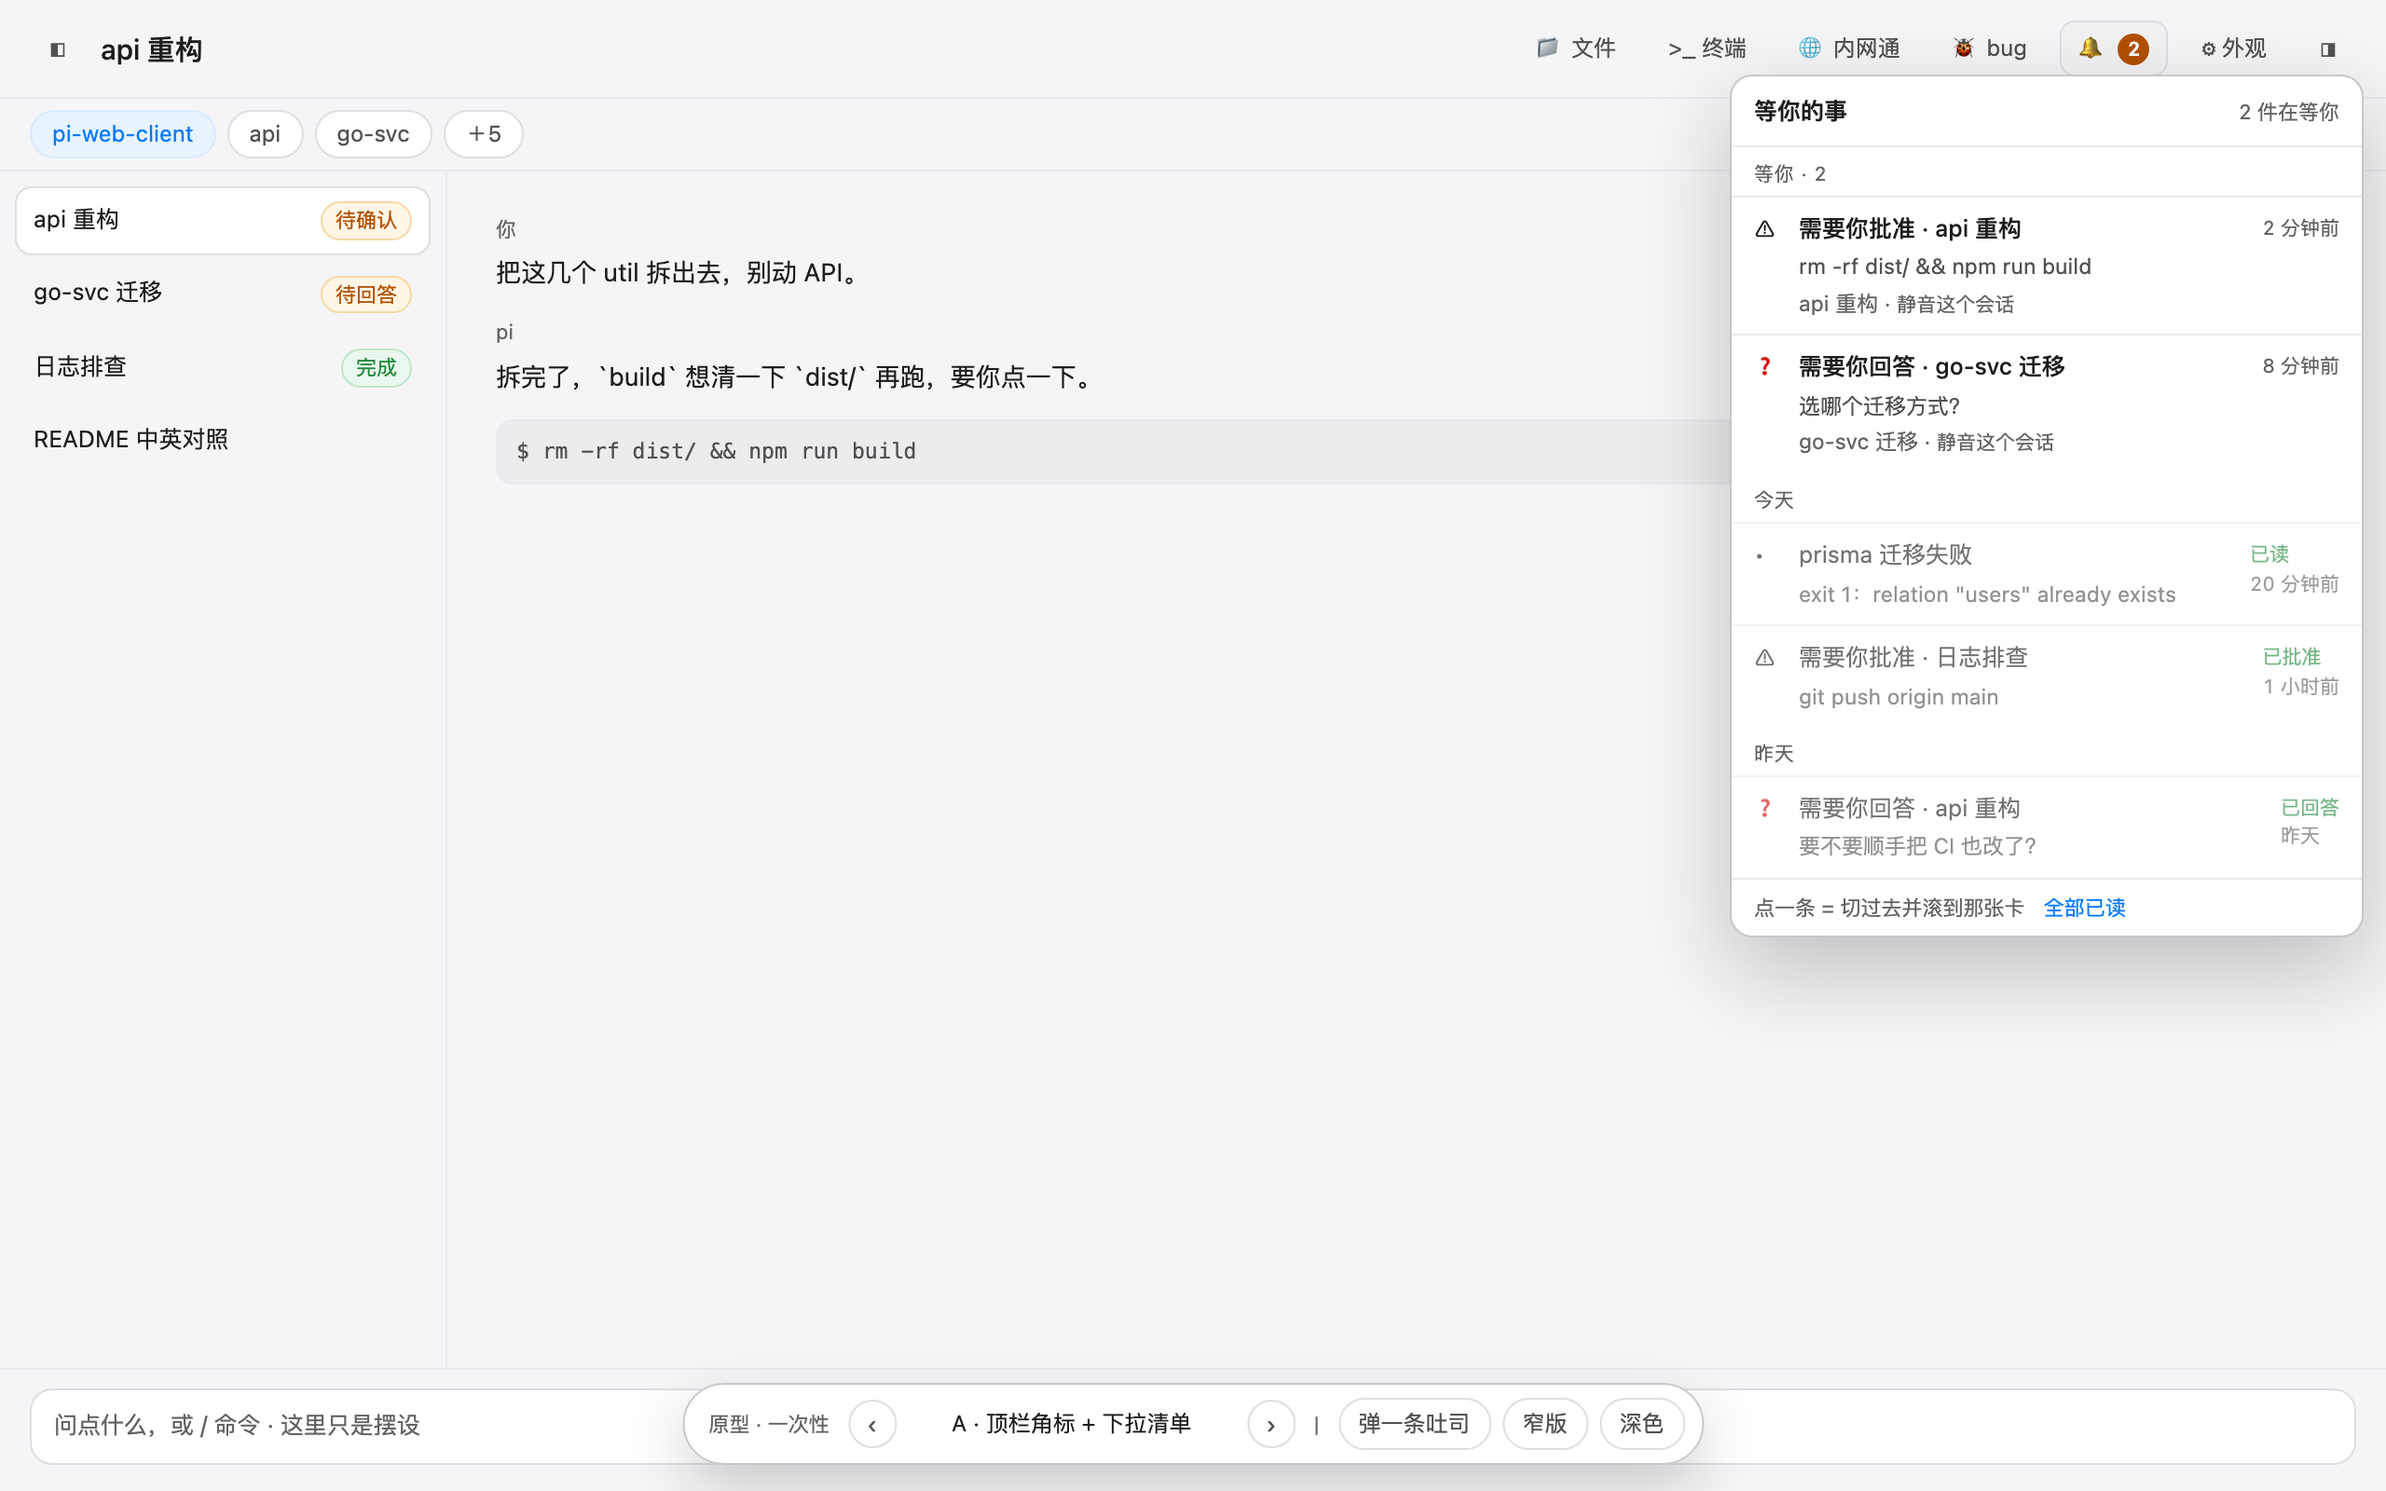
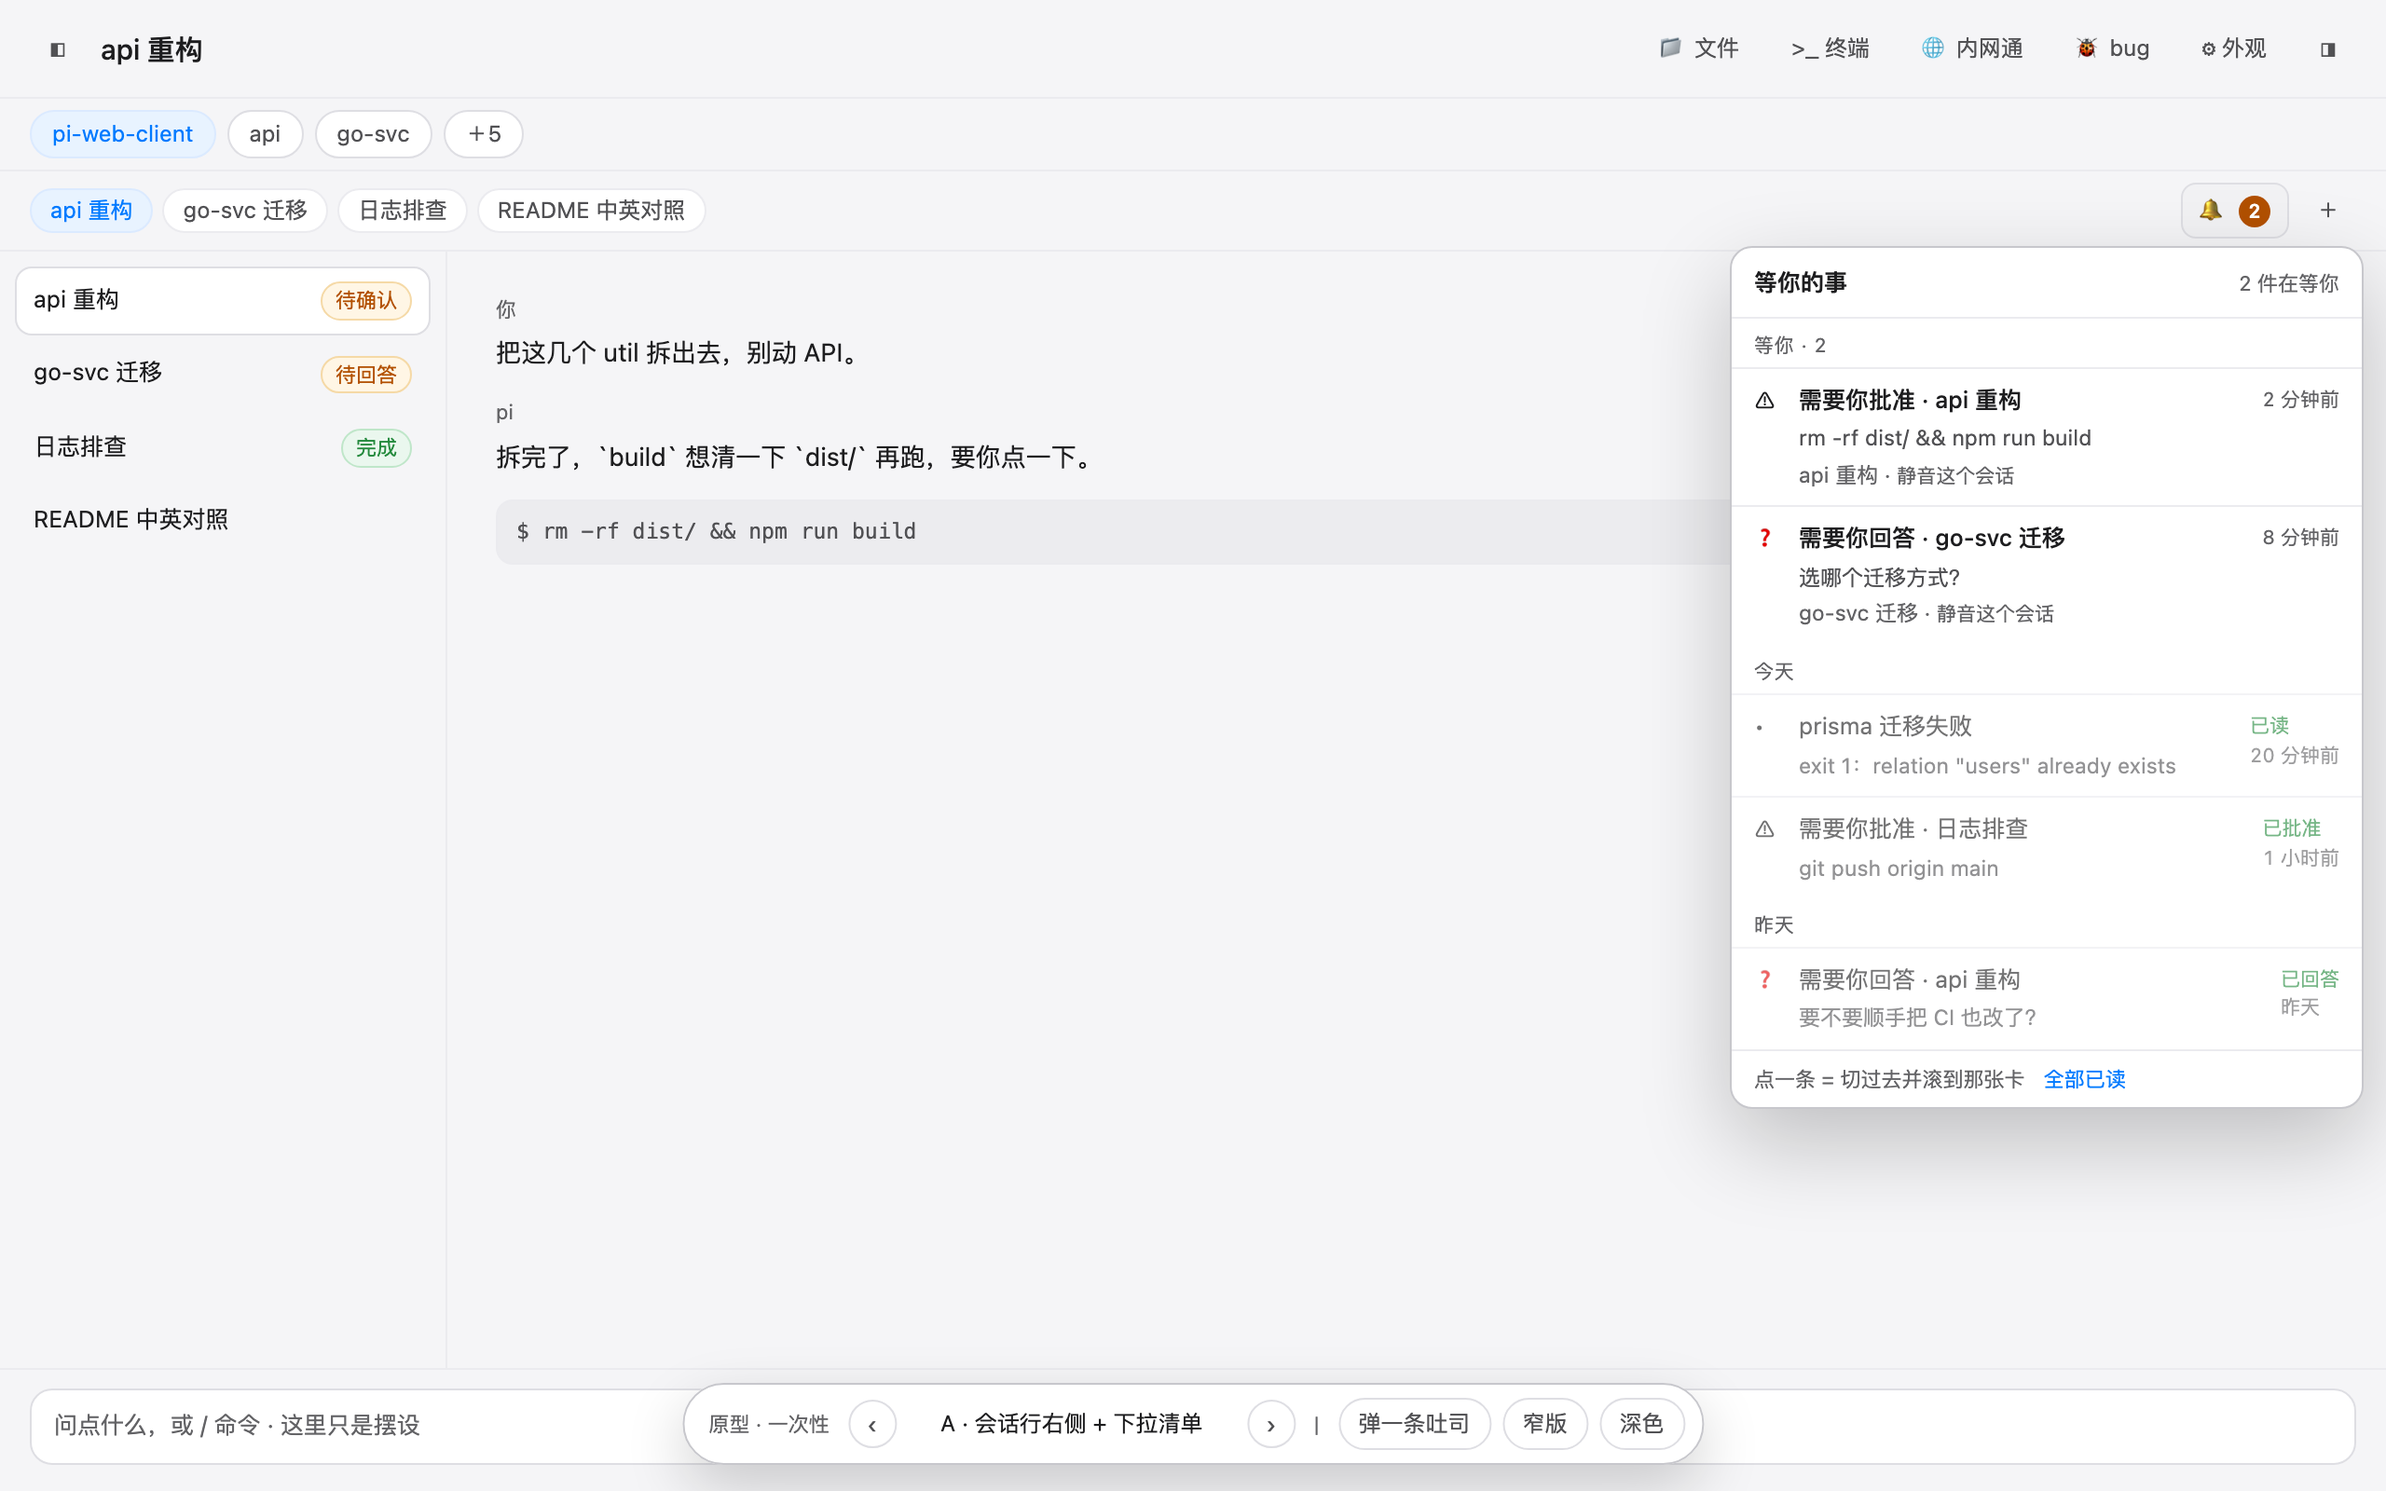
Move the bell to the right end of the session row (pin strip), not the topbar
The topbar already carries ten buttons; the bell's subject is sessions, so
it belongs on the ★ row, right of the pinned chips and left of ＋.

- mock shell gains a real sess-row (pin chips + bell + ＋)
- the popover now hangs under that row instead of under the topbar
- .app gets a fifth grid row — without it the session row ate the 1fr
  and the chat fell into an auto row (the classic hidden-child trap)
- toast drops to 146px so it starts below the row
- README: variants table now says where the bell actually sits

diff --git a/proto/reminders-ui/index.html b/proto/reminders-ui/index.html
@@ -49,7 +49,8 @@
   button { font: inherit; color: inherit; }
 
   /* ── 假的应用外壳（只为让角标出现在它该在的位置上） ───────────────────────── */
-  .app { display: grid; grid-template-rows: auto auto minmax(0, 1fr) auto; height: 100dvh; }
+  /* 五行对应五个子元素：顶栏 / 标签行 / ★ 行 / 主体 / 输入框。多一个子元素就多一行，主体会掉进 auto 行 */
+  .app { display: grid; grid-template-rows: auto auto auto minmax(0, 1fr) auto; height: 100dvh; }
   .topbar {
     display: flex; align-items: center; gap: 8px; padding: 11px 16px;
     border-bottom: 1px solid var(--line-soft); background: var(--bg); position: relative; z-index: 20;
@@ -90,8 +91,20 @@
   .composer { border-top: 1px solid var(--line-soft); padding: 10px 16px 14px; }
   .box { border: 1px solid var(--line); background: var(--panel); border-radius: var(--r); padding: 10px 12px; color: var(--faint); font-size: 12.5px; }
 
+  /* ── ★ 行（会话层）：角标就挂在这一行的最右端 ────────────────────────────── */
+  .sess-row {
+    position: relative; display: flex; align-items: center; gap: 6px; padding: 6px 16px;
+    border-bottom: 1px solid var(--line-soft); background: var(--bg);
+  }
+  .pin-strip { display: flex; align-items: center; gap: 5px; flex: 1; min-width: 0; overflow: hidden; }
+  .pin-chip {
+    flex: none; border: 1px solid var(--line-soft); background: var(--panel); color: var(--dim);
+    border-radius: 999px; padding: 2px 10px; font-size: 12px; white-space: nowrap;
+  }
+  .pin-chip.on { border-color: var(--accent-dim); background: var(--accent-bg); color: var(--accent); }
+
   /* ── 提醒：角标 ──────────────────────────────────────────────────────────── */
-  .remind-btn { position: relative; display: inline-flex; align-items: center; gap: 6px; }
+  .remind-btn { position: relative; display: inline-flex; align-items: center; gap: 6px; flex: none; }
   .remind-badge {
     min-width: 17px; height: 17px; padding: 0 4px; border-radius: 999px;
     background: var(--warn); color: var(--warn-ink, #fff); font-size: 10.5px; font-weight: 600;
@@ -132,7 +145,7 @@
   .pop-foot a { color: var(--accent); text-decoration: none; }
 
   /* E：按会话分组（结构上不是流水，是一张张会话卡） */
-  body[data-variant="E"] .remind-pop { top: 40px; right: 12px; width: 400px; max-height: 66vh; }
+  body[data-variant="E"] .remind-pop { top: calc(100% - 2px); right: 12px; width: 400px; max-height: 66vh; }
   .grpcard { border-top: 1px solid var(--line-soft); padding: 9px 12px 4px; cursor: pointer; }
   .grpcard:hover { background: var(--panel-2); }
   .grpcard .gh { display: flex; align-items: center; gap: 8px; }
@@ -142,8 +155,8 @@
   .grpcard .gi .gt { overflow: hidden; text-overflow: ellipsis; white-space: nowrap; }
   .grpcard .gsub { padding: 0 0 5px 22px; font-size: 10.5px; color: var(--faint); }
 
-  body[data-variant="A"] .remind-pop { top: 40px; right: 12px; width: 340px; max-height: 62vh; }
-  body[data-variant="B"] .remind-pop { top: 40px; right: 8px; width: 256px; max-height: 66vh; }
+  body[data-variant="A"] .remind-pop { top: calc(100% - 2px); right: 12px; width: 340px; max-height: 62vh; }
+  body[data-variant="B"] .remind-pop { top: calc(100% - 2px); right: 8px; width: 256px; max-height: 66vh; }
   body[data-variant="B"] .row { padding: 6px 10px; grid-template-columns: 14px minmax(0, 1fr) auto; }
   body[data-variant="B"] .row .sub { display: none; }
   body[data-variant="B"] .row:hover .sub { display: block; }
@@ -170,7 +183,7 @@
   .remind-strip .more { margin-left: auto; color: var(--dim); font-size: 11px; }
 
   /* ── 提醒：吐司（右上角，自己消失，悬停暂停） ────────────────────────────── */
-  .toasts { position: fixed; top: 64px; right: 16px; z-index: 60; display: flex; flex-direction: column; gap: 8px; width: 320px; }
+  .toasts { position: fixed; top: 146px; right: 16px; z-index: 60; display: flex; flex-direction: column; gap: 8px; width: 320px; }
   .toast {
     display: grid; grid-template-columns: 16px minmax(0, 1fr) auto; gap: 8px; align-items: start;
     background: var(--panel); border: 1px solid var(--line-strong); border-radius: 10px;
@@ -223,24 +236,9 @@
     <button class="tbtn">🌐 内网通</button>
     <button class="tbtn">🐞 bug</button>
 
-    <!-- 提醒：角标。B / C / D 里位置或形态不同，都不改这段 markup -->
-    <button class="tbtn remind-btn alert" data-count="2" id="remindBtn" title="等你的事">
-      <span aria-hidden="true">🔔</span>
-      <span class="remind-badge" id="remindBadge">2</span>
-    </button>
-
     <button class="tbtn">⚙ 外观</button>
     <button class="tbtn icobtn">◨</button>
 
-    <!-- 清单：A / B / C 共用这一份 -->
-    <div class="remind-pop" id="remindPop" role="dialog" aria-label="等你的事">
-      <div class="pop-head"><b>等你的事</b><span class="n" id="popCount">2 件在等你</span></div>
-      <div class="pop-body" id="popBody"></div>
-      <div class="pop-foot">
-        <span>点一条 = 切过去并滚到那张卡</span>
-        <a href="#" onclick="return false">全部已读</a>
-      </div>
-    </div>
   </header>
 
   <nav class="ws-tabs">
@@ -249,6 +247,29 @@
     <span class="ws-tab">go-svc</span>
     <span class="ws-tab">＋5</span>
   </nav>
+
+  <!-- ★ 行（会话层）：右上角那颗角标挂在这一行的最右端，不占顶栏 -->
+  <div class="sess-row">
+    <div class="pin-strip">
+      <span class="pin-chip on">api 重构</span>
+      <span class="pin-chip">go-svc 迁移</span>
+      <span class="pin-chip">日志排查</span>
+      <span class="pin-chip">README 中英对照</span>
+    </div>
+    <button class="tbtn remind-btn alert" data-count="2" id="remindBtn" title="等你的事">
+      <span aria-hidden="true">🔔</span>
+      <span class="remind-badge" id="remindBadge">2</span>
+    </button>
+    <button class="tbtn icobtn" title="置顶">＋</button>
+    <div class="remind-pop" id="remindPop" role="dialog" aria-label="等你的事">
+      <div class="pop-head"><b>等你的事</b><span class="n" id="popCount">2 件在等你</span></div>
+      <div class="pop-body" id="popBody"></div>
+      <div class="pop-foot">
+        <span>点一条 = 切过去并滚到那张卡</span>
+        <a href="#" onclick="return false">全部已读</a>
+      </div>
+    </div>
+  </div>
 
   <main class="main">
     <aside class="side">
@@ -301,8 +322,8 @@ const REMINDERS = [
 ];
 
 const BETS = {
-  A: "<b>A · 顶栏角标 + 下拉清单</b><br>赌「情报比操作重要」：清单只负责让你知道、跳过去；不复制审批 UI，窄屏也不抢正文。清单宽度 340，每条两行。",
-  B: "<b>B · 同排一格 + 极密列表</b><br>赌「你一屏能扫完」：单行只留标题与时间，正文悬停才出。看得多、认得快，但「rm -rf dist/」这种要点得先悬停才敢点。",
+  A: "<b>A · 会话行右侧 + 下拉清单</b><br>赌「情报比操作重要」：角标钉在 ★ 行右端（不挤顶栏那 10 颗），点开是 340px 的两行清单，只负责让你知道、跳过去，不复制审批 UI。",
+  B: "<b>B · 同一个位置 + 极密列表</b><br>赌「你一屏能扫完」：单行只留标题与时间，正文悬停才出。看得多、认得快，但「rm -rf dist/」这种要点得先悬停才敢点。",
   C: "<b>C · 右侧窄抽屉</b><br>赌「你愿意腾出 320px」：清单固定不随顶栏滚走，能停在那儿一格一格处理。代价是窄屏要么全宽盖住正文，要么干脆不出。",
   D: "<b>D · 底部状态带</b><br>赌「右上角是黄金位置」：不占顶栏，紧贴输入框，向上长。你正在打字时它的视线成本最低；反过来，全屏阅读时它离眼睛最远。",
   E: "<b>E · 按会话分组</b><br>赌「你关心的是哪个会话，不是哪一条」：一张会话卡里装它全部的等待（待确认 2 + 待回答 1），点卡 = 切过去。会话一多卡就少；但跨会话的「最近的先看」就读不出来了。",
@@ -310,7 +331,7 @@ const BETS = {
 
 const $ = (s, r = document) => r.querySelector(s);
 const state = { variant: "A", open: false, narrow: false, dark: false };
-const NAMES = { A: "顶栏角标 + 下拉清单", B: "同排一格 + 极密列表", C: "右侧窄抽屉", D: "底部状态带", E: "按会话分组" };
+const NAMES = { A: "会话行右侧 + 下拉清单", B: "会话行右侧 + 极密列表", C: "右侧窄抽屉", D: "底部状态带", E: "按会话分组" };
 
 function rel(at) {
   if (at > -60) return `${Math.abs(at)} 分钟前`;

diff --git a/proto/reminders-ui/README.md b/proto/reminders-ui/README.md
@@ -4,7 +4,9 @@
 
 **它不回答：** 状态怎么流转、角标怎么算。那是旁边 `../reminders-logic/` 的事。
 
-形状的大前提已经定了（`docs/DECISIONS.md` 的 **D389**）：别的会话在等你时，右上角弹一条自己消失的吐司 + 顶栏常驻角标 + 点角标开一栏清单；清单只负责跳转，不复制审批 UI。
+形状的大前提已经定了（`docs/DECISIONS.md` 的 **D389**）：别的会话在等你时，右上角弹一条自己消失的吐司 + 一个常驻角标 + 点角标开一栏清单；清单只负责跳转，不复制审批 UI。
+
+**角标的位置按你的意见改过**：第一版钉在顶栏（跟文件 / 终端 / 内网通那一排挤），现在是 **★ 行（会话层那一行）的最右端**，挨着 `＋`。理由是它讲的事就是会话。
 
 ## 怎么跑
 
@@ -24,11 +26,11 @@ open 'proto/reminders-ui/index.html?variant=C&toast=0'
 
 | | 形态 | 赌的是 | 代价 |
 | --- | --- | --- | --- |
-| **A** | 顶栏角标 → 下拉清单（340px，每条两行） | 清单只负责「让你知道 + 跳过去」 | 跨会话一多，清单就是一个长流水 |
+| **A** | ★ 行右端角标 → 下拉清单（340px，每条两行） | 清单只负责「让你知道 + 跳过去」 | 跨会话一多，清单就是一个长流水 |
 | **B** | 同一个角标位置 → 极密单行列表（256px，正文悬停才出） | 你一屏能扫完，认得快 | `rm -rf dist/` 这种得先悬停才敢点 |
-| **C** | 顶栏角标 → 右侧固定窄抽屉（320px） | 你愿意腾出 320px，让它停在那一格一格处理 | 窄屏要么全宽盖住正文，要么干脆不出 |
-| **D** | 不占顶栏：输入框上方一条状态带，点开往上长 | 右上角是黄金位，紧贴输入框的视线成本最低 | 全屏阅读时它离眼睛最远；顶栏就没有常驻数字了 |
-| **E** | 顶栏角标 → 按**会话**分组（一张卡装一个会话的全部等待） | 你关心的是「哪个会话在等我」，不是「哪一条」 | 跨会话的「最近的先看」读不出来 |
+| **C** | 角标仍在 ★ 行右端 → 右侧固定窄抽屉（320px） | 你愿意腾出 320px，让它停在那一格一格处理 | 窄屏要么全宽盖住正文，要么干脆不出 |
+| **D** | 干脆不要角标：输入框上方一条状态带，点开往上长 | 右上角是黄金位，紧贴输入框的视线成本最低 | 全屏阅读时它离眼睛最远；顶栏就没有常驻数字了 |
+| **E** | 同一个角标位置 → 按**会话**分组（一张卡装一个会话的全部等待） | 你关心的是「哪个会话在等我」，不是「哪一条」 | 跨会话的「最近的先看」读不出来 |
 
 截图：`shot-A.png` … `shot-E.png`，另加 `shot-toast.png`（吐司单张）、`shot-narrow.png`（620px 宽）。
 重拍：`node proto/reminders-ui/shots.mjs`（只拍某几个：`node proto/reminders-ui/shots.mjs A E`）。它顺手断言「清单开了、五条都在、角标是 2、没有 JS 报错」。
